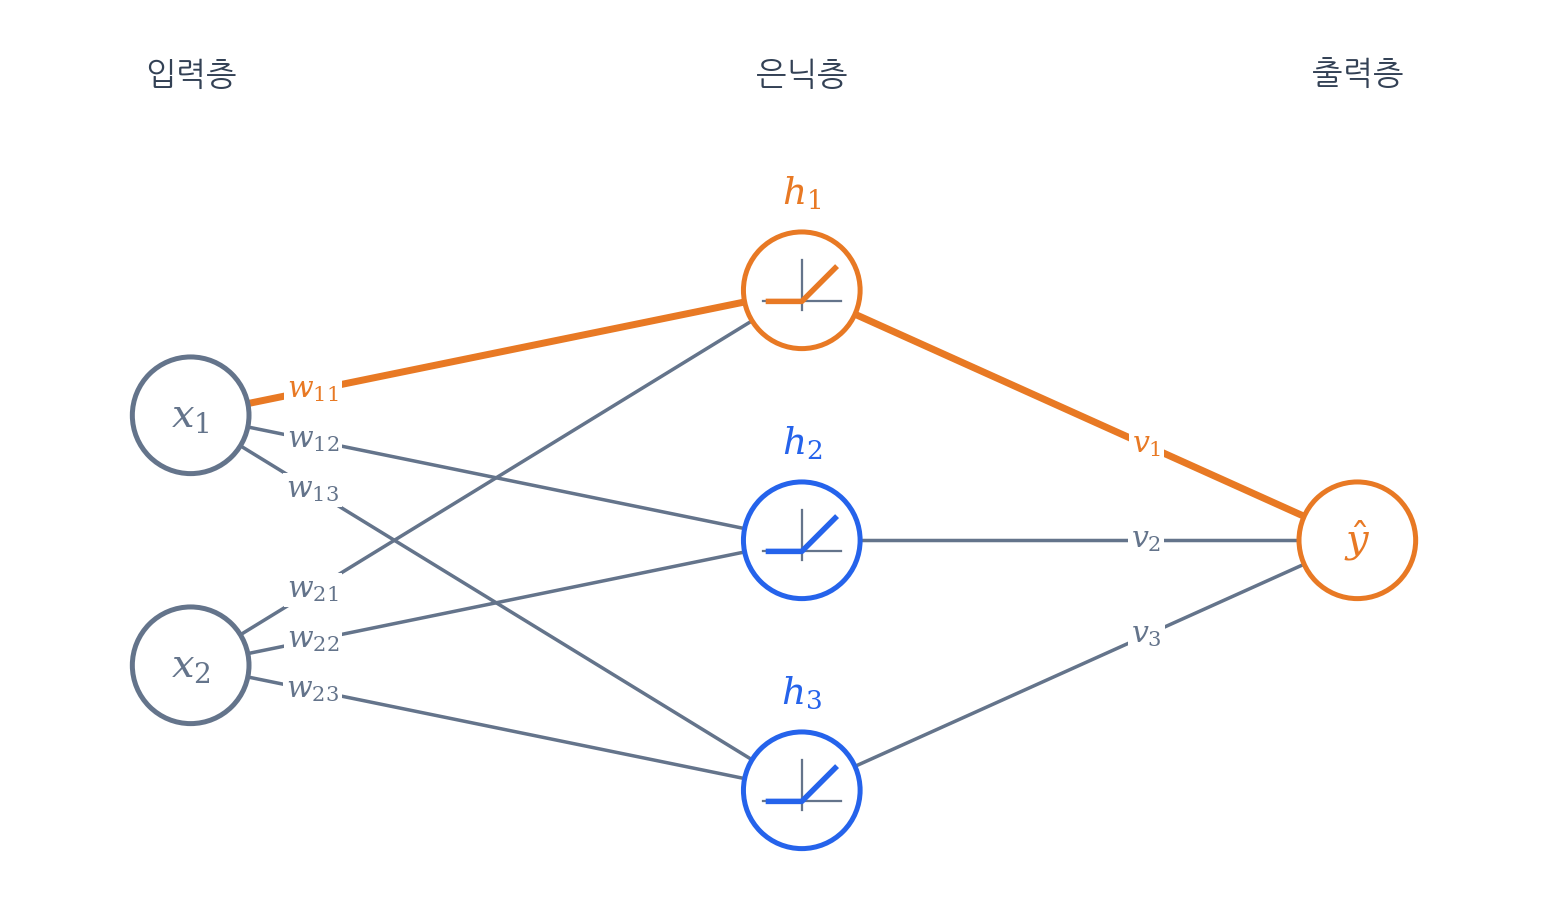
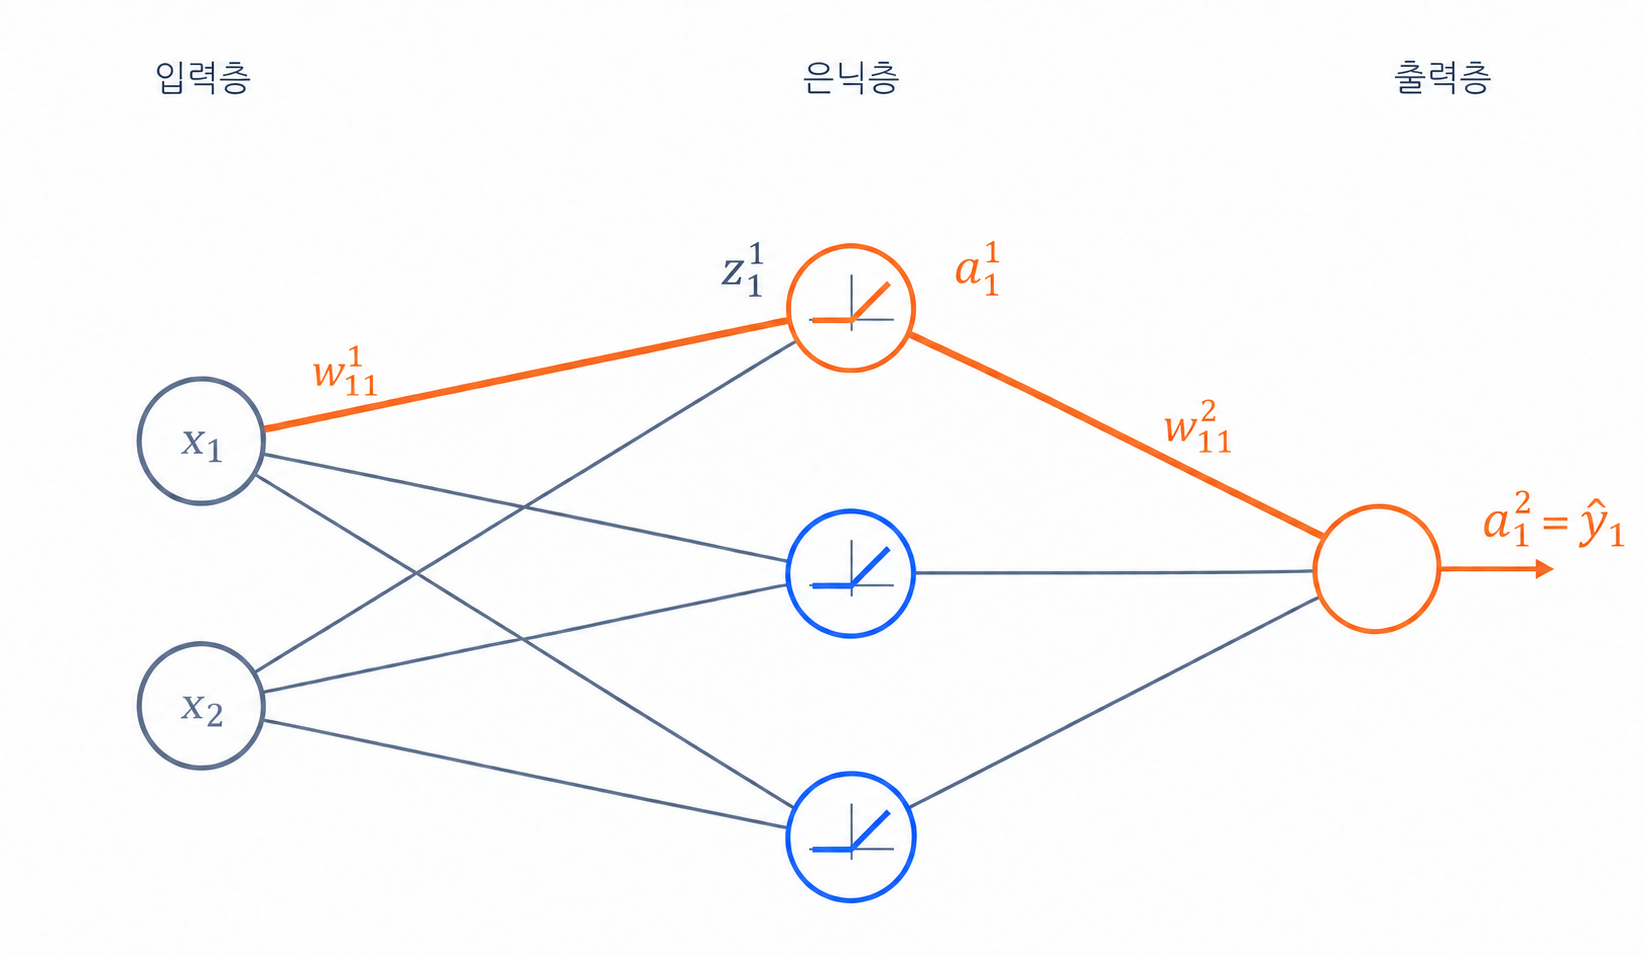
Unify backpropagation notation by layer with w b z and a

diff --git a/site/src/content/notes/Machine Learning｜Deep Learning/deeplearning_04.md b/site/src/content/notes/Machine Learning｜Deep Learning/deeplearning_04.md
@@ -23,100 +23,118 @@ featured: false
 
 ## 예측값과 손실 계산하기
 
-아래 그림은 입력 두 개, 은닉 노드 세 개, 출력 두 개로 구성한 신경망입니다. $z_j$와 $s_k$는 각 노드의 가중합, $h_j$와 $\hat y_k$는 출력값입니다. 가중치의 첫 첨자는 출발 노드, 둘째 첨자는 도착 노드를 뜻합니다.
+아래 그림은 입력 두 개, 은닉 노드 세 개, 출력 두 개로 구성한 신경망입니다. 계산을 따라갈 첫 은닉 노드와 두 출력 노드에만 기호를 표시했습니다.
 
-이후 계산은 출력 하나만 둔 경우로 단순화해 $v_{j1}$을 $v_j$, $c_1$을 $b_{\mathrm{out}}$, $\hat y_1$을 $\hat y$로 씁니다.
+가중치는 $w$, 편향은 $b$로 씁니다. $z$는 가중합과 편향을 더한 값, $a$는 활성화 함수를 통과한 출력값입니다. 윗첨자는 거듭제곱이 아니라 층 번호이고, 아랫첨자는 노드 번호입니다. 가중치의 두 아랫첨자는 출발 노드와 도착 노드를 뜻합니다.
 
-<img src="../../../../public/images/notes/backpropagation/example-network.png" alt="입력 x1·x2, 은닉 노드 세 개와 출력 노드 두 개를 연결한 신경망. 첫 은닉 노드의 입력 가중치 w11·w21, 편향 b1, 가중합 z1과 출력 h1, 두 출력으로 이어지는 가중치 v11·v12와 출력층 편향 c1·c2, 가중합 s1·s2와 예측값을 표시한다. 나머지 은닉 노드와 연결선의 라벨은 생략한다." width="960" loading="lazy" />
+<img src="../../../../public/images/notes/backpropagation/example-network.png" alt="입력 두 개, 은닉 노드 세 개와 출력 노드 두 개를 연결한 신경망. 첫 은닉 노드와 두 출력의 경로에만 가중치 w, 편향 b, 활성화 전 값 z와 출력값 a를 표시하고, 윗첨자로 층 번호를 구분한다." width="960" loading="lazy" />
 
-은닉 노드는 입력을 가중치로 합한 $z_j$에 ReLU를 씌워 $h_j$를 냅니다. 출력 노드는 $h_j$를 다시 가중치로 합해 $\hat y$를 냅니다.
-
-$$
-z_j=x_1w_{1j}+x_2w_{2j}+b_j,\qquad h_j=\operatorname{ReLU}(z_j)
-$$
+**첫 은닉 노드에 들어가는 값.** 입력값에 각각 가중치를 곱해 더하고, 편향을 더합니다.
 
 $$
-\hat y=h_1v_1+h_2v_2+h_3v_3+b_{\mathrm{out}}
+z^1_1=x_1w^1_{11}+x_2w^1_{21}+b^1_1
 $$
+
+**첫 은닉 노드에서 나오는 값.** $z^1_1$에 ReLU를 적용합니다. 나머지 은닉 노드도 같은 순서로 계산합니다.
+
+$$
+a^1_1=\operatorname{ReLU}(z^1_1)
+$$
+
+**첫 출력 노드에 들어가는 값.** 은닉 노드 세 개의 출력에 각각 가중치를 곱해 더하고, 출력층 편향을 더합니다.
+
+$$
+z^2_1=a^1_1w^2_{11}+a^1_2w^2_{21}+a^1_3w^2_{31}+b^2_1
+$$
+
+**첫 출력 노드에서 나오는 값.** 그림의 출력층은 들어온 값을 그대로 내보냅니다. 이 값이 예측값입니다.
+
+$$
+a^2_1=z^2_1,\qquad \hat y_1=a^2_1
+$$
+
+두 번째 출력도 같은 방식으로 계산하되, 가중치는 $w^2_{12}$, $w^2_{22}$, $w^2_{32}$, 편향은 $b^2_2$를 씁니다.
 
 이렇게 입력에서 출력 쪽으로 차례로 계산하는 과정을 **순전파**(Forward Propagation)라고 합니다.
 
-마지막으로 예측 $\hat y$와 정답 $y$를 비교해 손실을 구합니다. 손실은 MSE를 쓰고, 데이터가 하나라 평균은 생략합니다. $1/2$은 미분할 때 나오는 2를 없애 줍니다.
+이후 미분과 숫자 예제는 출력 하나만 둔 경우로 단순화해 첫 출력 $\hat y_1$을 따라갑니다.
+
+마지막으로 예측 $\hat y_1$과 정답 $y$를 비교해 손실을 구합니다. 손실은 MSE를 쓰고, 데이터가 하나라 평균은 생략합니다. $1/2$은 미분할 때 나오는 2를 없애 줍니다.
 
 $$
-L=\frac12(\hat y-y)^2
+L=\frac12(\hat y_1-y)^2
 $$
 
 ## 손실에서 거꾸로 미분하기
 
-같은 그림에서 $w_{11}$이 영향을 주는 길만 강조했습니다. $w_{11}\to z_1\to h_1\to\hat y$로 이어지고, $\hat y$에서 손실 $L$이 계산됩니다.
+출력 하나로 단순화한 그림에서 $w^1_{11}$이 영향을 주는 길만 강조했습니다. $w^1_{11}\to z^1_1\to a^1_1\to\hat y_1$로 이어지고, $\hat y_1$에서 손실 $L$이 계산됩니다.
 
-<img src="../../../../public/images/notes/backpropagation/path-w11.png" alt="예시 신경망에서 w11, h1, v1, y-hat으로 이어지는 경로만 주황색으로 강조한 그림" width="640" loading="lazy" />
+<img src="../../../../public/images/notes/backpropagation/path-w11.png" alt="출력 하나를 둔 신경망에서 1층 가중치 w11, 활성화 전 값 z와 출력 a, 2층 가중치 w11을 거쳐 예측값으로 이어지는 경로를 주황색으로 강조한 그림" width="640" loading="lazy" />
 
-연쇄 법칙에 따라 이 경로의 구간마다 변화율을 곱합니다. 인수는 손실 쪽 구간부터 차례로 $\hat y\to L$, $h_1\to\hat y$, $z_1\to h_1$, $w_{11}\to z_1$의 변화율입니다.
+연쇄 법칙에 따라 이 경로의 구간마다 변화율을 곱합니다. 인수는 손실 쪽 구간부터 차례로 $\hat y_1\to L$, $a^1_1\to\hat y_1$, $z^1_1\to a^1_1$, $w^1_{11}\to z^1_1$의 변화율입니다.
 
 $$
-\frac{\partial L}{\partial w_{11}}
-=\underbrace{\frac{\partial L}{\partial\hat y}}_{\hat y-y}
-\underbrace{\frac{\partial\hat y}{\partial h_1}}_{v_1}
-\underbrace{\frac{\partial h_1}{\partial z_1}}_{\operatorname{ReLU}'(z_1)}
-\underbrace{\frac{\partial z_1}{\partial w_{11}}}_{x_1}
+\frac{\partial L}{\partial w^1_{11}}
+=\underbrace{\frac{\partial L}{\partial\hat y_1}}_{\hat y_1-y}
+\underbrace{\frac{\partial\hat y_1}{\partial a^1_1}}_{w^2_{11}}
+\underbrace{\frac{\partial a^1_1}{\partial z^1_1}}_{\operatorname{ReLU}'(z^1_1)}
+\underbrace{\frac{\partial z^1_1}{\partial w^1_{11}}}_{x_1}
 $$
 
 ReLU의 기울기는 입력이 양수이면 1, 음수이면 0입니다. 0에서는 정의되지 않아 구현에서는 보통 0으로 처리합니다.
 
 ### 뒤에서 구한 값 재사용하기
 
-$w_{21}$의 경로도 $w_{11}$과 같은 길 $z_1\to h_1\to\hat y\to L$을 지납니다. 처음 세 인수 $(\hat y-y)\,v_1\operatorname{ReLU}'(z_1)$이 같으므로, $z_1$에서의 미분 $\delta_1$ 하나로 묶어 두고 $h_1$으로 들어오는 선이 함께 씁니다.
+$w^1_{21}$의 경로도 $w^1_{11}$과 같은 길 $z^1_1\to a^1_1\to\hat y_1\to L$을 지납니다. 처음 세 인수 $(\hat y_1-y)\,w^2_{11}\operatorname{ReLU}'(z^1_1)$이 같으므로, $z^1_1$에서의 미분 $\delta_1$ 하나로 묶어 두고 $a^1_1$을 계산하는 두 입력선이 함께 씁니다.
 
-<img src="../../../../public/images/notes/backpropagation/shared-delta.png" alt="h1으로 들어오는 두 선 w11, w21을 주황색으로 강조하고 h1 옆에 델타1을 표시한 그림" width="640" loading="lazy" />
+<img src="../../../../public/images/notes/backpropagation/shared-delta.png" alt="첫 은닉 노드로 들어오는 1층 가중치 w11과 w21을 주황색으로 강조하고 활성화 전 값 z에 대한 미분 델타1을 표시한 그림" width="640" loading="lazy" />
 
 $$
-\delta_1=\frac{\partial L}{\partial z_1}=(\hat y-y)\,v_1\operatorname{ReLU}'(z_1),\qquad
-\frac{\partial L}{\partial w_{11}}=x_1\delta_1,\quad
-\frac{\partial L}{\partial w_{21}}=x_2\delta_1,\quad
-\frac{\partial L}{\partial b_1}=\delta_1
+\delta_1=\frac{\partial L}{\partial z^1_1}=(\hat y_1-y)\,w^2_{11}\operatorname{ReLU}'(z^1_1),\qquad
+\frac{\partial L}{\partial w^1_{11}}=x_1\delta_1,\quad
+\frac{\partial L}{\partial w^1_{21}}=x_2\delta_1,\quad
+\frac{\partial L}{\partial b^1_1}=\delta_1
 $$
 
 모든 은닉 노드 $j$에 같은 식이 적용됩니다.
 
 $$
-\delta_j=(\hat y-y)\,v_j\operatorname{ReLU}'(z_j),\qquad
-\frac{\partial L}{\partial w_{ij}}=x_i\delta_j
+\delta_j=(\hat y_1-y)\,w^2_{j1}\operatorname{ReLU}'(z^1_j),\qquad
+\frac{\partial L}{\partial w^1_{ij}}=x_i\delta_j
 $$
 
-출력층 가중치는 손실과 바로 이어져 더 짧습니다. $\partial L/\partial v_j=h_j(\hat y-y)$, $\partial L/\partial b_{\mathrm{out}}=\hat y-y$입니다.
+출력층 가중치는 손실과 바로 이어져 더 짧습니다. $\partial L/\partial w^2_{j1}=a^1_j(\hat y_1-y)$, $\partial L/\partial b^2_1=\hat y_1-y$입니다.
 
-이 식들에 들어가는 $\hat y$, $z_j$, $h_j$는 순전파에서 이미 구한 값이라 다시 계산하지 않고 그대로 씁니다.
+이 식들에 들어가는 $\hat y_1$, $z^1_j$, $a^1_j$는 순전파에서 이미 구한 값이라 다시 계산하지 않고 그대로 씁니다.
 
 그래서 학습은 **순전파 → 손실 계산 → 역전파 → 파라미터 갱신** 순서로 진행됩니다.
 
 ## 숫자로 한 번 따라가기
 
-$x_1=1$, $x_2=2$, 정답 $y=4$로 두겠습니다(설명용 값입니다). 처음 값은 다음과 같고, $b_j$와 $b_{\mathrm{out}}$은 0입니다.
+$x_1=1$, $x_2=2$, 정답 $y=4$로 두겠습니다(설명용 값입니다). 처음 값은 다음과 같고, $b^1_j$와 $b^2_1$은 0입니다.
 
-| 은닉 노드 $j$ | $w_{1j}$ | $w_{2j}$ | $v_j$ |
+| 은닉 노드 $j$ | $w^1_{1j}$ | $w^1_{2j}$ | $w^2_{j1}$ |
 | --- | ---: | ---: | ---: |
 | 1 | 1 | 0 | 1 |
 | 2 | 0 | 1 | 1 |
 | 3 | −1 | 0 | 1 |
 
-**순전파.** $z=(1,\,2,\,-1)$이므로 $h=(1,\,2,\,0)$, 예측은 $\hat y=3$, 손실은 $L=\frac12(3-4)^2=0.5$입니다.
+**순전파.** $z^1=(1,\,2,\,-1)$이므로 $a^1=(1,\,2,\,0)$, 예측은 $\hat y_1=3$, 손실은 $L=\frac12(3-4)^2=0.5$입니다.
 
-**역전파.** $\hat y-y=-1$이고 ReLU 기울기는 $(1,\,1,\,0)$이므로 $\delta=(-1,\,-1,\,0)$입니다. 노드 3은 ReLU의 음수 구간이라 이 노드를 지나는 미분은 모두 0입니다.
+**역전파.** $\hat y_1-y=-1$이고 ReLU 기울기는 $(1,\,1,\,0)$이므로 $\delta=(-1,\,-1,\,0)$입니다. 노드 3은 ReLU의 음수 구간이라 이 노드를 지나는 미분은 모두 0입니다.
 
 | 파라미터 | 노드 1 | 노드 2 | 노드 3 |
 | --- | ---: | ---: | ---: |
-| $\partial L/\partial w_{1j}=x_1\delta_j$ | −1 | −1 | 0 |
-| $\partial L/\partial w_{2j}=x_2\delta_j$ | −2 | −2 | 0 |
-| $\partial L/\partial v_j=h_j(\hat y-y)$ | −1 | −2 | 0 |
+| $\partial L/\partial w^1_{1j}=x_1\delta_j$ | −1 | −1 | 0 |
+| $\partial L/\partial w^1_{2j}=x_2\delta_j$ | −2 | −2 | 0 |
+| $\partial L/\partial w^2_{j1}=a^1_j(\hat y_1-y)$ | −1 | −2 | 0 |
 
-$\partial L/\partial b_j$는 $\delta_j$와 같고, $\partial L/\partial b_{\mathrm{out}}=-1$입니다.
+$\partial L/\partial b^1_j$는 $\delta_j$와 같고, $\partial L/\partial b^2_1=-1$입니다.
 
-**갱신.** 학습률 $\eta=0.01$로 모든 파라미터를 $\text{값}-\eta\times\text{미분}$으로 바꿉니다. 예를 들어 $w_{11}$은 $1-0.01(-1)=1.01$입니다. 갱신한 값으로 다시 순전파하면 $h=(1.06,\,2.06,\,0)$이고, $v=(1.01,\,1.02,\,1)$, $b_{\mathrm{out}}=0.01$이므로
+**갱신.** 학습률 $\eta=0.01$로 모든 파라미터를 $\text{값}-\eta\times\text{미분}$으로 바꿉니다. 예를 들어 $w^1_{11}$은 $1-0.01(-1)=1.01$입니다. 갱신한 값으로 다시 순전파하면 $a^1=(1.06,\,2.06,\,0)$이고, $(w^2_{11},\,w^2_{21},\,w^2_{31})=(1.01,\,1.02,\,1)$, $b^2_1=0.01$이므로
 
 $$
-\hat y=1.06(1.01)+2.06(1.02)+0.01=3.1818
+\hat y_1=1.06(1.01)+2.06(1.02)+0.01=3.1818
 $$
 
 손실은 0.5에서 약 0.3347로 줄었습니다.
